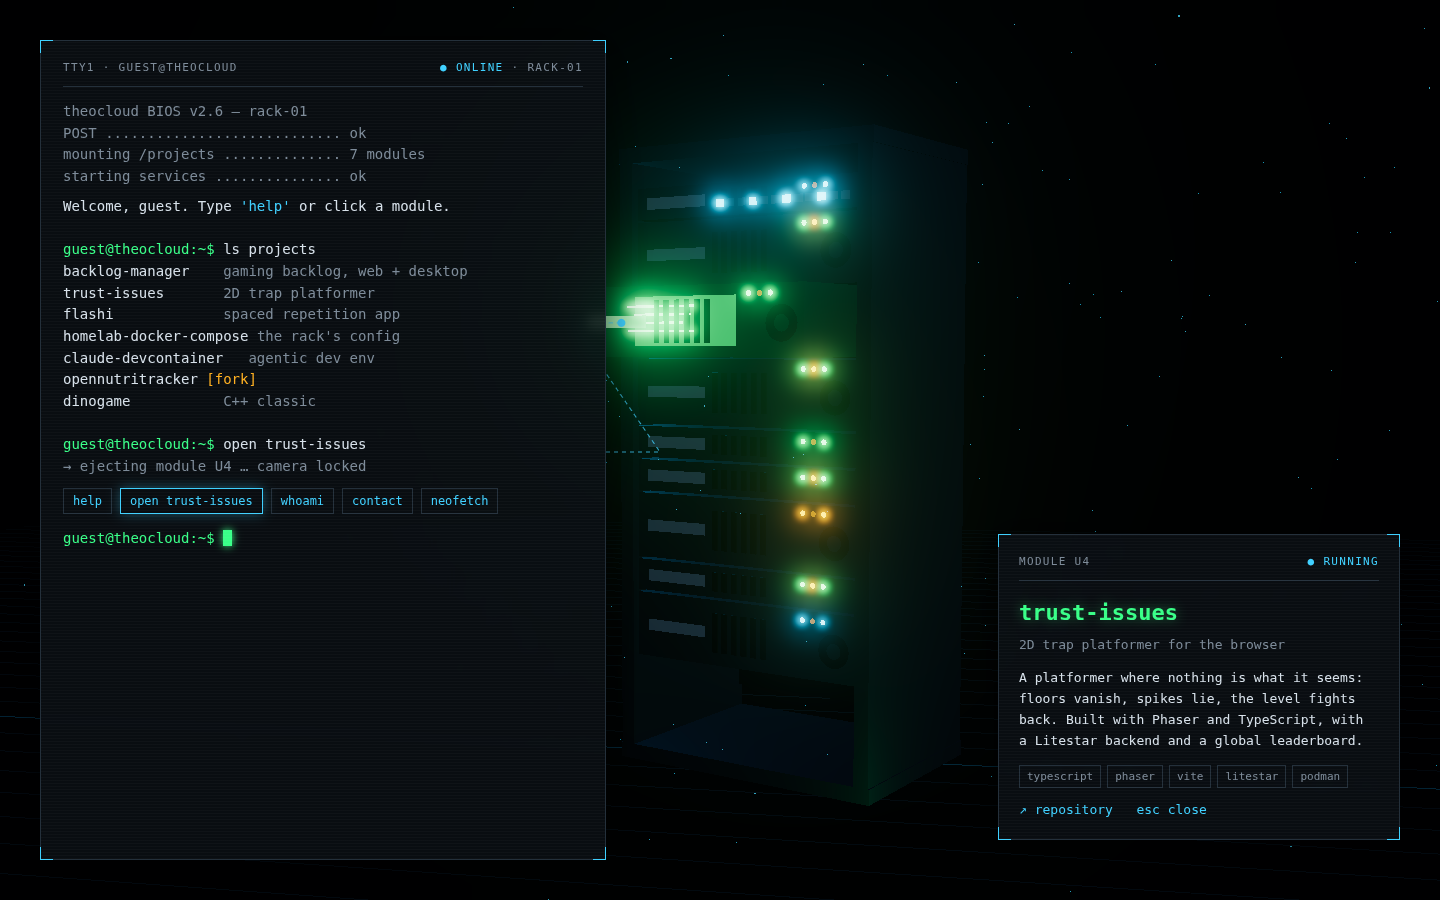
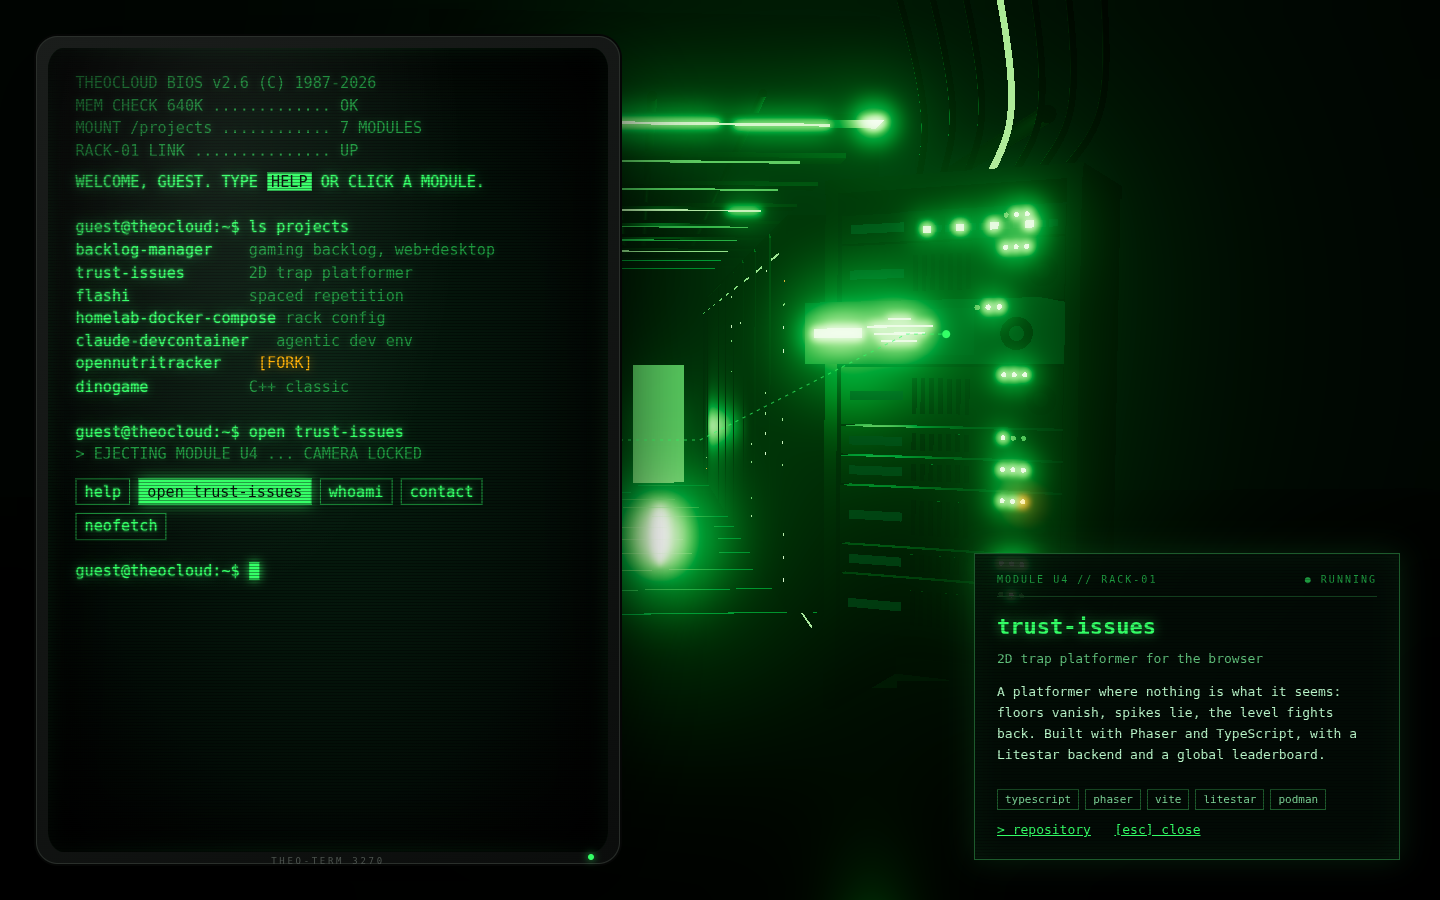
docs: design concept for the cyberpunk lab with CRT terminal and server rack (#29)

diff --git a/docs/design-concept.md b/docs/design-concept.md
@@ -14,35 +14,46 @@ It has to work for three kinds of visitors:
 
 ## 2. Look and feel
 
-**Mood:** a dark server room at night. Near-black space, brushed gunmetal, phosphor-green terminal text, cyan HUD lines, status LEDs and fans. Calm and precise rather than flashy; motion only where it means something (boot, focus, activity).
+**Mood: a cyberpunk cyber lab at night.** A dark, cramped server room lit almost only in green: wet concrete floor, panelled walls with thin neon strips, cable bundles running from the racks up into the ceiling, more racks blinking in the haze behind. In front of it sits an **old-school CRT terminal**: green phosphor on black, a chunky bezel, curved glass, scanlines and glow. Motion only where it means something (boot, focus, activity); no starfield, no space.
 
 ### Colour tokens
 
-| Token              | Value                       | Use                                      |
-| ------------------ | --------------------------- | ---------------------------------------- |
-| `--color-void`     | `#05070a`                   | page and scene background, fog           |
-| `--color-panel`    | `#0b0f14` (at 85 % opacity) | terminal and HUD panels                  |
-| `--color-metal`    | `#1b2027`                   | rack frame, module faces                 |
-| `--color-line`     | `#24303b`                   | panel borders, grid                      |
-| `--color-phosphor` | `#39ff88`                   | terminal text, prompt, "online" LEDs     |
-| `--color-signal`   | `#3fd0ff`                   | HUD lines, links, focus rings, selection |
-| `--color-amber`    | `#ffb020`                   | activity LEDs, warnings, the fork badge  |
-| `--color-alert`    | `#ff4d5e`                   | errors, "command not found"              |
-| `--color-muted`    | `#7d8b99`                   | secondary text, timestamps               |
-| `--color-text`     | `#d7e1ea`                   | long-form text in project screens        |
+Green is the light source of the whole site; amber and red are the only other hues and appear only as small signals.
 
-Contrast: phosphor, signal, text and muted on `--color-panel` all reach WCAG AA for body text; amber and alert are used for short labels only.
+| Token                  | Value     | Use                                                           |
+| ---------------------- | --------- | ------------------------------------------------------------- |
+| `--color-void`         | `#020403` | page and scene background                                     |
+| `--color-haze`         | `#020a05` | fog colour                                                    |
+| `--color-bezel`        | `#141816` | CRT housing, rack metal base tone                             |
+| `--color-glass`        | `#031008` | CRT screen background, HUD panels (at 82 % opacity)           |
+| `--color-line`         | `#1d5a2c` | panel borders, chips, grid                                    |
+| `--color-phosphor`     | `#33ff66` | terminal text, prompt, neon, "online" LEDs, links, focus ring |
+| `--color-phosphor-dim` | `#1d9a3f` | boot log, secondary terminal text                             |
+| `--color-text`         | `#b8f5c8` | long-form text in project screens                             |
+| `--color-amber`        | `#ffb000` | activity LEDs, warnings, the fork badge                       |
+| `--color-alert`        | `#ff3b3b` | errors, "command not found"                                   |
+
+Contrast: phosphor, phosphor-dim and text on `--color-glass` reach WCAG AA for body text; amber and alert are used for short labels only. The focus ring is a 2 px phosphor outline plus glow, so it stays visible on the green scene.
 
 ### Typography
 
-- **JetBrains Mono** (OFL, self-hosted, no Google Fonts) for everything: terminal, HUD labels, headings. Weights 400 / 700.
-- Sizes: terminal 15 px desktop / 14 px mobile, line height 1.55; HUD labels 11 px uppercase with 0.12 em tracking; project screen headings 22 px.
+- **VT323** (OFL, self-hosted) for the CRT terminal: the boot log, prompt and command output, 20 px desktop / 18 px mobile, line height 1.3, so it reads like a real 80-column terminal.
+- **JetBrains Mono** (OFL, self-hosted) for longer text: project screens, HUD labels (11 px uppercase, 0.2 em tracking), headings. Weights 400 / 700.
+- No Google Fonts; both are bundled.
 
-### Effects
+### CRT terminal
 
-- **Scene:** bloom on emissive LEDs and the screen of the focused module, exponential fog in `--color-void`, one cool key light, rim light from behind the rack, slowly spinning fans, blinking activity LEDs (random, low frequency).
-- **Overlay:** faint scanlines and a vignette on the terminal panel (CSS), a blinking block cursor, 1 px HUD frame corners.
-- **Post-processing budget:** bloom + vignette only; no chromatic aberration or glitch loops (they hurt readability and motion-sensitive visitors).
+- Housing: rounded bezel in `--color-bezel` with a model plate ("THEO-TERM 3270") and a green power LED.
+- Glass: slightly curved (CSS perspective plus an SVG barrel filter where supported), inner shadow at the edges, a soft reflection highlight top-left.
+- Phosphor: three-layer text glow, scanlines every 3 px, a faint vignette, a blinking block cursor, inverted text for highlights (`HELP`).
+- Life: subtle brightness flicker and a rolling scan bar every few seconds; both are off with `prefers-reduced-motion`, and the flicker never exceeds 3 changes per second (no seizure risk).
+
+### Scene
+
+- Lighting: a soft green key light from above the rack, a green back light on the wall, low green ambient; neon strips along floor and walls; green-tinted exponential fog so the background racks fade into haze.
+- Rack: brushed dark metal, label strips, LEDs, fans, cables from the top into the ceiling (one of them glowing).
+- Room: panelled back wall, reflective wet floor, two or three background racks with random blinking LEDs, a few drifting dust particles in the light.
+- Post-processing budget: bloom (selective on emissive parts) + vignette. No glitch loops or heavy chromatic aberration on text; the CRT feel comes from the terminal styling, not from distorting the whole screen.
 
 ## 3. Rack and content model
 
@@ -82,7 +93,7 @@ The rack is centre stage and fills the screen. The terminal lives **inside the s
 
 ### C — Hybrid HUD (recommended)
 
-Full-screen scene with the rack slightly right of centre and the camera at a three-quarter angle. The terminal is a crisp **2D HUD panel docked on the left**, visually tied to the scene by a thin cyan HUD line that connects the prompt to the active module. Opening a project slides the module out and shows its screen as a second HUD panel on the right.
+Full-screen scene: the rack stands on the right at a three-quarter angle, a server aisle with cable trays runs into the haze behind it towards a glowing door, and the camera looks down the aisle. The terminal is a crisp **2D CRT terminal docked on the left**, visually tied to the scene by a thin phosphor HUD line that connects the prompt to the active module. Opening a project slides the module out and shows its screen as a second HUD panel on the right.
 
 - - 3D stays the hero, text stays real HTML (sharp, accessible, selectable)
 - - works on mobile: terminal full-screen, rack as a small strip on top that still reacts
@@ -92,7 +103,7 @@ Full-screen scene with the rack slightly right of centre and the camera at a thr
 
 ![Mockup of variant C: terminal HUD on the left, rack with the trust-issues module slid out, project screen on the right](design/mockup-variant-c.png)
 
-The mockup is a throwaway prototype (plain Three.js, procedural geometry, bloom) rendered in headless Chromium; it is not part of the code base.
+The mockup is a throwaway prototype (plain Three.js, procedural geometry, bloom, CSS CRT) rendered in headless Chromium with a system monospace font instead of VT323; it is not part of the code base.
 
 ## 5. Interaction
 
@@ -162,7 +173,7 @@ Idle: very slow orbit (a few degrees) with mouse parallax. Focus: 0.9 s eased fl
 8. Post-processing and polish: bloom, vignette, idle animation, performance tuning (`frameloop`, DPR, visibility)
 9. Easter eggs: `neofetch`, `play dino`, `sudo`
 10. Quality: performance and bundle budget check in CI, a11y pass (keyboard, screen reader, contrast), `index.html` meta / Open Graph, `noscript`
-11. Design tokens in Tailwind `@theme` and self-hosted JetBrains Mono (#30)
+11. Design tokens in Tailwind `@theme`, self-hosted VT323 and JetBrains Mono, CRT terminal styling (#30)
 
 The order and scope get confirmed once the variant is chosen; new dependencies are audited before they are added.
 
